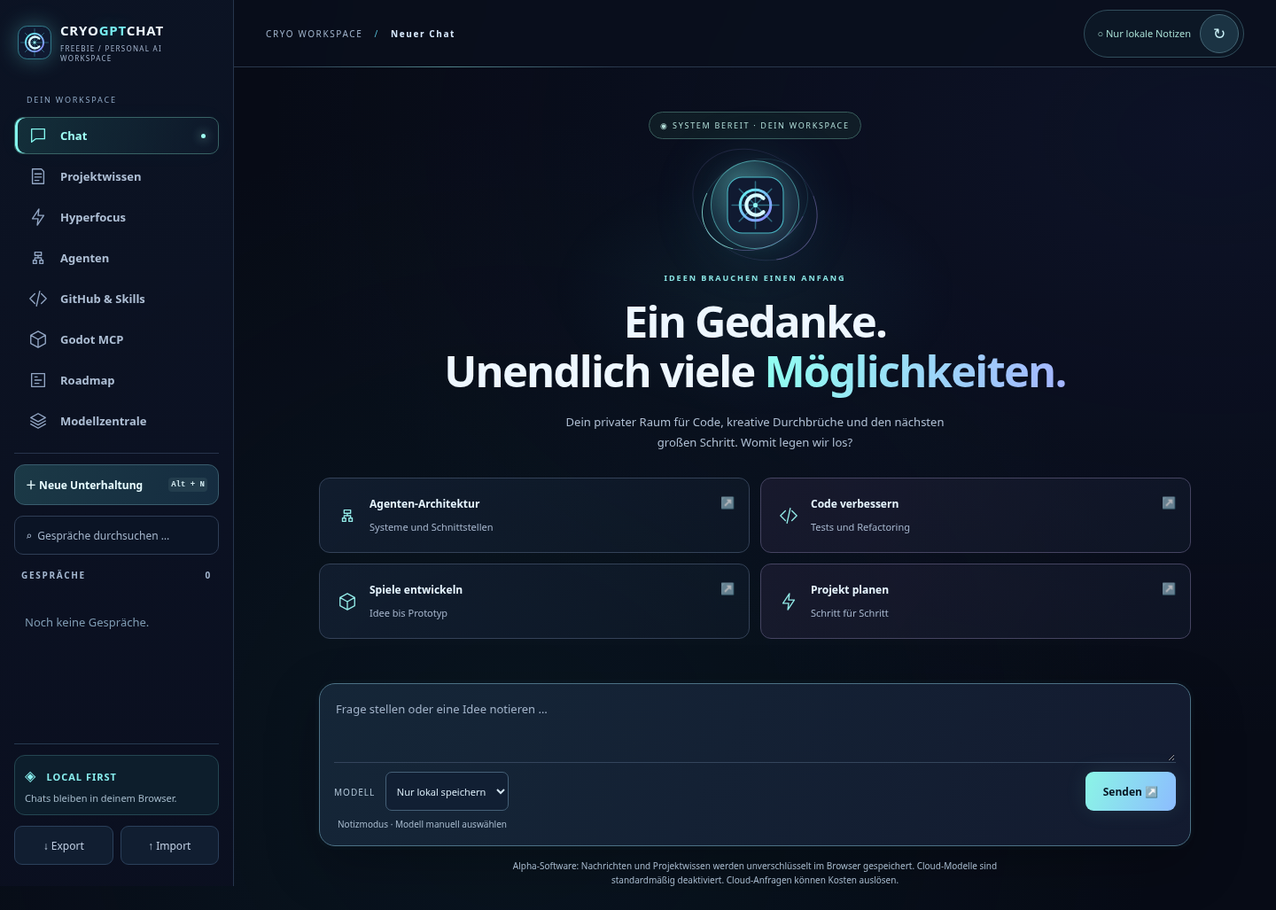
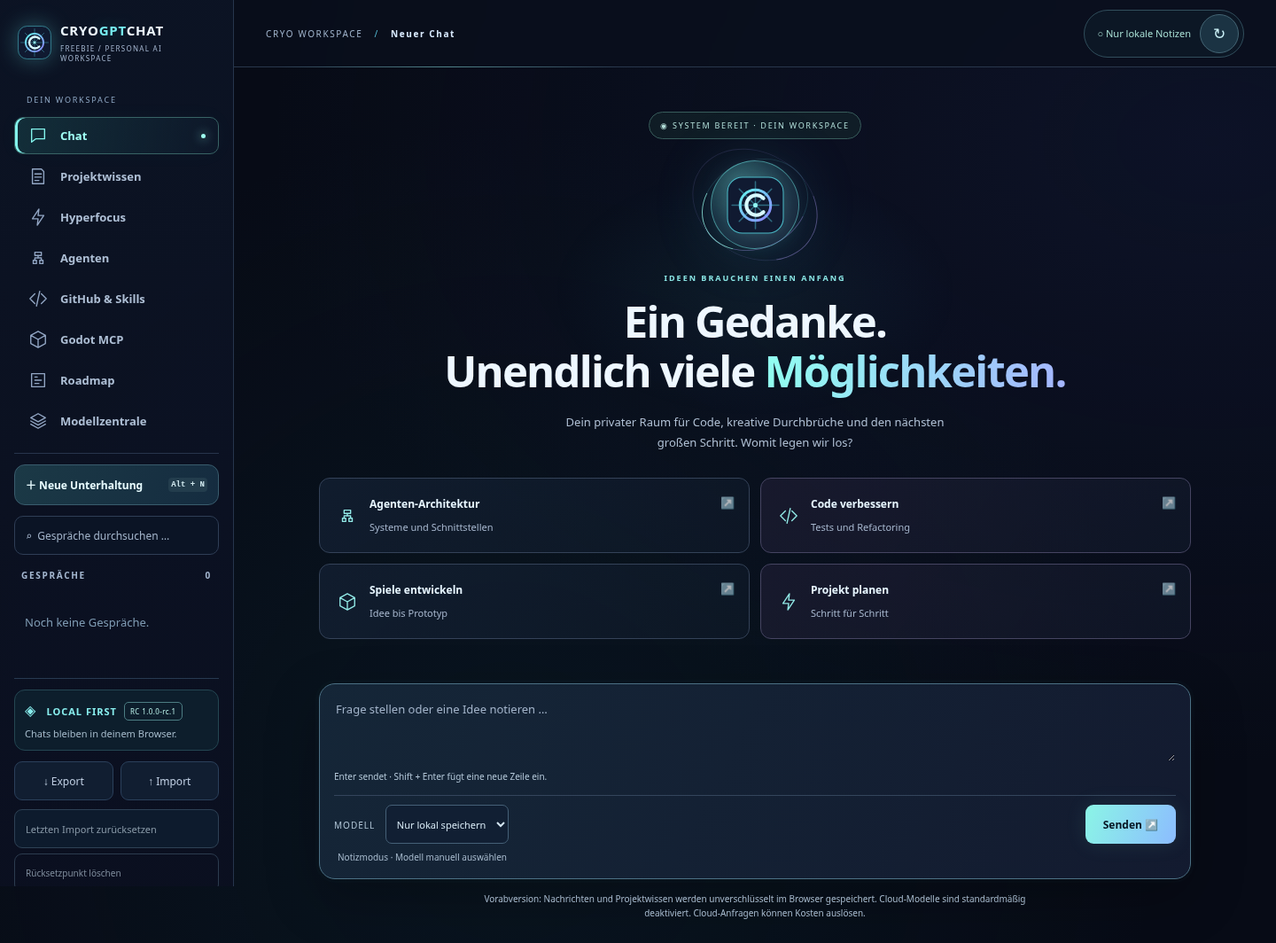
docs: prepare 1.0 release candidate with evidence and open acceptance gate

diff --git a/README.md b/README.md
@@ -9,7 +9,7 @@
   **Ollama lokal**, **OpenAI optional**, **GitHub-/Cryo-Omega-Skills als geprüfte Referenz** und **Godot MCP nur mit manueller Freigabe**.
 
   <p>
-    <code>ALPHA 0.4</code> ·
+    <code>1.0.0-rc.1</code> ·
     <code>LOCAL FIRST</code> ·
     <code>NODE.JS 20+</code> ·
     <code>MODEL PROVIDERS: OPT-IN</code>
@@ -26,6 +26,12 @@
 </div>
 
 ---
+
+## Auf dem Weg zu 1.0 · Release-Candidate
+
+**Stabile 1.0 ist noch nicht freigegeben:** Die manuelle Accessibility-Abnahme bleibt offen. Paketbau, Plattform-/Migrationspolitik und blockierende Release-Gates stehen in [docs/RELEASE.md](docs/RELEASE.md).
+
+Backups vor dem Import prüfen, einen lesbaren Fehlerbericht herunterladen und den letzten Import bei Bedarf zurücksetzen. Die neue Wiederherstellung speichert Chats und Rücksetzpunkt in IndexedDB atomar. Dazu kommen pausierbare Animationen, dauerhaft lesbare Meldungen und verbesserte Tastatur-/Live-Statusführung. Das Backupformat bleibt mit Version 1 und 2 kompatibel. [Wiederherstellung und Grenzen](docs/backup-recovery.md) · [Accessibility-Prüfbericht](docs/accessibility-report.md)
 
 ## ❄ Cryo-Neon-Workspace
 
@@ -132,13 +138,13 @@ Automatisierte Node- und Browser-Tests decken Core, Streaming, Speicherung, GitH
 - **Nicht unverändert öffentlich ins Internet stellen.** Dies ist ein lokales Experiment, keine produktionsreife SaaS-Lösung.
 - Vor einem JSON-Import ein Backup exportieren; bestätigter Import ersetzt den aktuellen Datenbestand.
 
-## 🤖 Alpha 0.4 · Optionale KI-Anbieter und kontrollierte Agentenschritte
+## 🤖 Optionale KI-Anbieter und kontrollierte Agentenschritte
 
 **Neu:** Ollama und eine optionale OpenAI-Chat-Completions-API können in derselben Modellauswahl genutzt werden. Die OpenAI-Anbindung benötigt serverseitig `OPENAI_API_KEY` **und** die explizite Modell-Allowlist `CRYO_OPENAI_MODELS`. Cloud-Nutzung bleibt standardmäßig aus; vor jeder Cloud-Anfrage wird der Nutzer gefragt. Die OpenAI API ist separat kostenpflichtig.
 
-Der **Agenten-Workspace** zeigt für erlaubte GitHub-Leseaktionen zunächst einen Plan. Erst nach expliziter Freigabe wird **genau ein** Schritt ausgeführt: README lesen oder den Cryo-Omega-Skill-Katalog durchsuchen. Ergebnisse werden nur auf Knopfdruck in einen Nachrichtenentwurf übertragen; sie starten keinen autonomen Agenten.
+Der **Agenten-Workspace** bietet bis zu fünf einzeln freigegebene Leseaktionen: README, Skills, Repository-Struktur und begrenzte Textdateien. Ergebnisse werden nur auf Wunsch in einen Nachrichtenentwurf übertragen. Optionale Markdown-Ausgabe benötigt getrennte serverseitige Opt-ins und eine vollständige Vorschau; GitHub-Ausgabe erzeugt neue Branches und PRs, keine direkten Änderungen auf `main`.
 
-**Einrichtung, Datenschutz und Grenzen:** [Modellanbieter & Agentenschritte](docs/model-providers-and-agents.md). Kein GitHub-Schreibzugriff, keine Shell-Kommandos und keine automatische Ausführung von Skills.
+**Einrichtung, Datenschutz und Grenzen:** [Modellanbieter & Agentenschritte](docs/model-providers-and-agents.md) und [Workspace-Konfiguration](docs/workspace.md). Keine Shell-Kommandos und keine automatische Ausführung von Skills.
 
 ## 🔌 Optionale Integrationen (experimentell)
 
@@ -148,7 +154,7 @@ Die neue GitHub-Anbindung kann explizit freigegebene **öffentliche** Repositori
 CRYO_GITHUB_REPOS=Pierreg99/CryoGPTCHATFREEBIE,Pierreg99/cryo-omega-AI-Agentic-Learn-Packages npm start
 ```
 
-Öffne dann im Chat **Projektwissen → GitHub & Cryo-Omega Skills**. Ohne diese Umgebungsvariable bleibt die Integration ausgeschaltet. Weitere Hinweise und API-Details: [Integrationsanleitung](docs/integrations.md).
+Öffne dann in der Navigation **GitHub & Skills**. Ohne diese Umgebungsvariable bleibt die Integration ausgeschaltet. Weitere Hinweise und API-Details: [Integrationsanleitung](docs/integrations.md).
 
 ## 🧠 Projektwissen je Chat
 
@@ -195,7 +201,7 @@ Es werden **keine** bestehenden Szenen überschrieben und **keine** Dateipfade o
 | :--- | :--- | :--- |
 | **v0.1–v0.4** | Chat, Streaming, IndexedDB, OpenAI Opt-in, GitHub-/Skill-Read-only und Godot MCP | ✅ Im Code / historische Phasen |
 | **v0.5** | Hyperfocus: einmal bestätigte, begrenzte read-only Recherche mit optionaler Ollama-Planung | ✅ MVP mit Browser-E2E |
-| **v0.6–v1.0** | Browser-Tests, Accessibility, Datenrettung und Security-Baseline | ⬜ Geplant |
+| **v0.6–v1.0** | Browser-Tests, Accessibility, Datenrettung und Security-Baseline | v0.6/v0.8/v0.9 umgesetzt; v0.7 und v1.0 teilweise |
 | **v1.1–v3.0** | Zuverlässigkeit, Projektwissen, Skill-Registry und zitierte Quellen | ⬜ Vision |
 | **v3.1–v5.0** | Geprüfte Agentenrechte, sichere GitHub-Workflows und Godot/3D | ⬜ Vision |
 | **v5.1–v10.0** | Multimodalität, optionaler Sync, Plugin-SDK und Plattformreife | ⬜ Vision |

diff --git a/docs/security/THREAT-MODEL.md b/docs/security/THREAT-MODEL.md
@@ -1,0 +1,39 @@
+# Security-Baseline · Roadmap v0.9
+
+## Einsatzgrenze
+
+Die App läuft als lokaler Einzelbenutzer-Prozess ausschließlich auf `127.0.0.1`. Sie bietet keine Anmeldung, Benutzertrennung, Prozesssandbox oder sichere öffentliche Bereitstellung. Ein anderer Prozess oder Benutzer mit Zugriff auf das lokale Konto kann Browser-/Dateisystemdaten und Serverkonfiguration erreichen. Das ist keine Multi-User-Sicherheitsgrenze.
+
+Schützenswerte Daten sind Chat-/Projektnotizen und Backups, serverseitige Provider-/GitHub-Schlüssel, lokale Ausgabeordner und ausdrücklich konfigurierte Godot-Projekte. Externe README-/Skill-Texte und MCP-Antworten sind Daten, keine privilegierten Anweisungen.
+
+## Grenzen und Maßnahmen
+
+| Angriff / Fehler | Maßnahme und Test |
+| --- | --- |
+| DNS-Rebinding / fremder Host | HTTP-Host muss exakt `127.0.0.1:PORT` sein. Absolute Fremd-URLs werden abgewiesen. Browser-/Raw-HTTP-Negativtests in `tests/security.test.js`. |
+| Fremde Browser-Anfragen | Fremder/undurchsichtiger Origin und widersprüchliche Fetch-Metadata werden bei API-POST vor dem Routing abgewiesen. Browser-JSON verlangt passenden Ursprung. |
+| Historische lokale CLI | Chat und lesende Agenten behalten den dokumentierten lokalen CLI-Pfad ohne Origin/Fetch-Metadata. Godot, Hyperfocus und Agenten-Schreiben verlangen weiterhin expliziten kanonischen Origin. Das ist keine Authentifizierung lokaler Programme. |
+| XSS / Clickjacking | Content-Security-Policy ohne Inline-Skripte, fremde Verbindungen oder eingebettete Frames; frame-ancestors none, X-Frame-Options DENY, nosniff und Same-Origin-CORP/COOP. Texte werden als Text eingefügt. |
+| Unbeabsichtigte Gerätefreigabe | Kamera, Mikrofon und Standort sind per Permissions-Policy deaktiviert. Künftige Medienfeatures benötigen eine gesonderte Änderung. |
+| Überlast / große Eingaben | Maximal 200.000 HTTP-Body-Bytes, Content-Length-Vorabprüfung, 15 s Request-/10 s Header-Timeout, 64 Header. Höchstens zwei aktive Modellanfragen, ein Hyperfocus-Lauf und zwei Godot-Prozesse. Vorhandene Modell-/Stream-/Planlimits bleiben aktiv. |
+| Beliebige Dateien / URLs | Statische Dateien haben eine explizite Allowlist; GitHub-Reads nutzen festen API-Host und freigegebene Repositories. Lokale Writes erlauben neue Markdown-Dateien im festgelegten Linux-Ausgabeordner. |
+| Ungeprüfte Schreibaktionen | Default aus, begrenzte Repositories und serverseitiger Token, vollständige Vorschau, kurzlebiges gebundenes Ticket, neue Branches und PRs; kein Merge aus Produkt-Agenten. |
+| Veraltete oder doppelte Freigabe | Einmal-Tickets, Kontext-/Inhaltsprüfung und GitHub-Commit-/Branch-Abgleich. Ein Restore verwirft alte Browser-Vorschauen. |
+| Backup-Verlust | Vorschau, redigierter Bericht, ausdrückliche Bestätigung und atomarer IndexedDB-Rücksetzpunkt. Quota-/Konfliktfälle werden negativ geprüft. |
+
+Die Obergrenze für den HTTP-Body schließt JSON-Escaping ein und kann kleiner sein als die theoretische Summe aller einzelnen Textfeldlimits. Oversize-Content-Length wird mit 413 abgewiesen; chunked Übergröße wird beim Lesen beendet. Es gibt keinen unbegrenzten generischen Proxy oder Shell-Endpunkt.
+
+## Restrisiken
+
+Browser-Speicher und Exporte sind unverschlüsselt. Öffentliche GitHub-APIs können Rate-Limits erreichen. Ein ausdrücklich gestartetes externes MCP-Programm ist ausführbarer Fremdcode und wird durch die Werkzeug-Allowlist nicht isoliert. Ein lokaler GitHub-/Provider-Token muss außerhalb des Repositories verwaltet und minimal berechtigt sein. Einen bereits angelegten Branch oder eine externe Datei löscht ein fehlgeschlagener Folgeaufruf nicht automatisch.
+
+Diese Baseline und negative Tests sind kein unabhängiger Penetrationstest. Sandbox, Multi-User-/Sync-Rechte, vollständiges Approval-Journal und externe Audits gehören weiterhin zu ihren eigenen Roadmap-Gates.
+
+## Review-Checkliste
+
+- [x] Zulässige Hosts, Browser-Origin und CLI-Ausnahme sind ausdrücklich dokumentiert und getestet.
+- [x] Alle API-Schreib-/Toolwege bleiben begrenzt; keine neue Shell oder freie Tool-Selektion.
+- [x] CSP/Frame-/Gerätegrenzen sind zentral definiert und über HTTP geprüft.
+- [x] Body-/Zeit-/Parallelitätslimits liegen vor Upstream-Seiteneffekten.
+- [x] Rücksetz-/Fehlerberichte enthalten keine Chattexte oder Schlüssel.
+- [x] Replay, Traversal, geänderte Vorschau, Quota und konkurrierende Daten sind in negativen Tests vertreten.

diff --git a/docs/accessibility-report.md b/docs/accessibility-report.md
@@ -1,0 +1,39 @@
+# Accessibility-Prüfbericht · 1.0.0-rc.1
+
+Stand: 21. Oktober 2026. Roadmap v0.7, Kernflows des lokalen Einzelbenutzer-Workspace. Dieser Bericht dokumentiert technische Prüfungen gegen WCAG 2.2 A/AA; er ist keine vollständige Konformitätserklärung oder unabhängige Zertifizierung.
+
+## Gegenstand und Methode
+
+Geprüft werden Navigation, Chat/Stoppen, Modellwahl, Projektwissen, Agentenfreigaben, GitHub/Skills, Hyperfocus, Godot-Formulare, Roadmap und Backup-Wiederherstellung. Grundlage sind echte Chromium-Browserläufe, DOM-/Accessibility-Regeln mit axe, Tastatureingaben, Fokus-/Geometrieprüfungen und Fehler-Injektion. Externe Provider und Godot sind dabei simuliert. Viewports: 320, 360, 768 und 1440 CSS-Pixel. Die Tests stehen in `e2e/accessibility.spec.js`, `e2e/recovery.spec.js` und `e2e/workspace.spec.js`.
+
+## Umgesetzte und technisch geprüfte Maßnahmen
+
+| Kriterium / Risiko | Änderung und Nachweis |
+| --- | --- |
+| 1.1.1, 1.3.1, 4.1.2 – Namen und Semantik | Beschriftete Felder, Landmarken, native Dialoge und dekorative SVGs ohne redundante Ansage; axe über acht Ansichten und Importdialog. |
+| 1.4.3 – Kontrast | axe prüft erfassbare Text-/Hintergrundkombinationen. Visuelle Sonderzustände bleiben Teil der manuellen Abnahme. |
+| 1.4.10 – Reflow | Keine horizontale Seitennavigation bei 320 CSS-Pixeln in acht Ansichten; größere Desktop-/Tablet-Viewports ebenfalls geprüft. |
+| 2.1.1, 2.1.2 – Tastatur | Alt+N erstellt einen Chat; Tab erreicht Modellwahl und Senden; Enter kann eine gestartete Antwort stoppen. Dialog und mobile Navigation verlassen sich mit Escape. |
+| 2.2.1 – Lesedauer | Meldungen verschwinden nicht mehr nach acht Sekunden. Eine beschriftete Schließen-Schaltfläche gibt die Kontrolle zurück. |
+| 2.2.2 – Bewegung | Animationen lassen sich unabhängig pausieren und lokal merken. Die Systemvorgabe für reduzierte Bewegung hat Vorrang. |
+| 2.4.1, 2.4.3, 2.4.7 – Fokus | Sprunglink, Fokus bei Ansichtswechsel, native Dialogbegrenzung, geschlossene mobile Navigation außerhalb der Tab-Reihenfolge und Fokusrückgabe nach Stoppen/Schließen. |
+| 2.4.11 – Nicht verdeckter Fokus | Meldungen reservieren Platz; überlagerte fokussierte Elemente werden sichtbar gescrollt. Geometrieprüfung im mobilen Browser-Test. |
+| 2.5.8 – Ziele | axe-WCAG-2.2-Regeln ergänzen die vorhandenen Mindestgrößen. Kontrollbeschriftungen vergrößern auch die anklickbare Checkboxfläche. |
+| 3.3.1, 3.3.2, 3.3.4 – Fehler und Datenverlust | Backup-Dry-run mit Fehlerpfaden, Vorschau, gesonderter Zustimmung und Rücksetzpunkt; fehlgeschlagene Speicherung wird nicht als Erfolg dargestellt. |
+| 4.1.3 – Status | Separate, kurze Generierungsansagen und aria-busy; der gesamte Chatverlauf wird nicht bei jedem Rendern neu vorgelesen. |
+
+## Reproduktion
+
+```bash
+npm ci
+npx playwright install chromium
+npm run test:e2e -- e2e/accessibility.spec.js e2e/recovery.spec.js
+```
+
+Die Browser-Suite verwendet die Tags `wcag2a`, `wcag2aa`, `wcag21aa` und `wcag22aa`. Die breitere Layout-Suite bleibt zusätzlich aktiv. Ein grüner Regelscan kann nicht die tatsächliche Bedienerfahrung mit Assistive Technology beweisen.
+
+## Offene manuelle Abnahme – blockiert stabiles 1.0
+
+Ein Mensch muss die folgenden Kernflows mit einer realen Screenreader-/Browserkombination protokollieren: Navigation einschließlich mobilem Drawer, Chat erstellen/senden/stoppen, Modell-/Cloud-Freigabe, Projektwissen speichern, Agentenplan freigeben sowie gültiges/ungültiges Backup prüfen, importieren und zurücksetzen. Zu dokumentieren sind Betriebssystem, Browser, Screenreader und Versionen, Datum, Ergebnis und Befunde. Zusätzlich sind Textvergrößerung/Zoom, Textabstände, Fokuskontrast in Sonderzuständen und tatsächliche Lesereihenfolge zu prüfen.
+
+In dieser Umgebung wurden keine NVDA-, VoiceOver- oder Orca-Sprachausgaben gehört, keine physischen Mobilgeräte geprüft und keine unabhängige WCAG-Abnahme durchgeführt. Es werden dafür keine positiven Ergebnisse behauptet. Roadmap v0.7 bleibt **teilweise umgesetzt**, bis der manuelle Nachweis vorliegt. Die Release-Checkliste blockiert deshalb `1.0.0`; `1.0.0-rc.1` ist ein prüfbarer Kandidat.

diff --git a/docs/workspace.md b/docs/workspace.md
@@ -75,7 +75,7 @@ npm run test:e2e
 
 Der Server benötigt Node 20+. Browser-Tests verwenden Node 24 in CI; aktuelle axe-Entwicklungsabhängigkeiten benötigen mindestens Node 22.12. Die Laufzeit hat weiterhin keine npm-Abhängigkeiten.
 
-Node-Tests prüfen bestehende Funktionen sowie Markdown-Validierung, exklusive lokale Ausgabe, Symlink-Schutz, Ablauf/Wiederverwendung, geänderten Basisbranch und GitHub-Teilfehler. Playwright prüft acht Ansichten bei 360/768/1440 Pixeln mit axe, Tastatur-/Dialogbedienung, Chats, Streaming/Abbruch, Projektwissen, Backup-Import/Export, Modelle, Skills, Hyperfocus, Agenten und Godot. CI behält Node 20/22 bei und ergänzt einen Chromium-Job mit Fehler-Screenshots und Traces.
+Node-Tests prüfen bestehende Funktionen sowie Markdown-Validierung, exklusive lokale Ausgabe, Symlink-Schutz, Ablauf/Wiederverwendung, geänderten Basisbranch und GitHub-Teilfehler. Playwright prüft acht Ansichten bei 360/768/1440 Pixeln mit axe, Tastatur-/Dialogbedienung, Chats, Streaming/Abbruch, Projektwissen, Backup-Import/Export, Modelle, Skills, Hyperfocus, Agenten und Godot. CI prüft Node 20/22/24 und ergänzt einen Chromium-Job mit Fehler-Screenshots und Traces.
 
 Externe Dienste werden in Tests simuliert. Echte kostenpflichtige Cloud-Anfragen, reale Godot-Installationen und Schreibaktionen in fremden GitHub-Repositories werden nicht durch die Tests ausgeführt. Automatische axe-Prüfungen ersetzen keinen vollständigen Screenreader-Test.
 
@@ -87,8 +87,12 @@ Echte Screenshots der lokal laufenden Oberfläche: [Desktop](screenshots/workspa
 
 `GET /api/roadmap` liest die bestehende Markdown-Roadmap serverseitig über `src/roadmap.mjs`. Die Dokumentation bleibt die einzige Datenquelle; es gibt keine separat zu pflegende JSON-Kopie. Der Parser prüft alle 100 aufeinanderfolgenden Versionsnummern, zehn Phasen und vollständige Abnahmekriterien. Ungültige Quelldaten erzeugen einen Fehler mit Wiederholungsaktion in der Oberfläche. Es werden keine Releases oder Implementierungen aus Versionsnummern abgeleitet.
 
-Statusabgleich nach PR #13: v0.1–v0.6 sind Entwicklungsmeilensteine im Code; v0.7 und v6.1 sind teilweise umgesetzt. Eine vollständige manuelle WCAG-2.2-AA-Abnahme bleibt offen. Weitere Ziele behalten ihren Planungsstatus, bis ihre Gates belegt sind.
+Statusabgleich zum 1.0-Release-Candidate: v0.1–v0.6, v0.8 und v0.9 sind Entwicklungsmeilensteine im Code; v0.7, v1.0 und v6.1 sind teilweise umgesetzt. Eine vollständige manuelle WCAG-2.2-AA-Abnahme bleibt offen. Weitere Ziele behalten ihren Planungsstatus, bis ihre Gates belegt sind.
 
 Der Interface-Feinschliff ergänzt einheitliche SVG-Symbole, kompakte mobile Vorschläge, eine Kontextleiste, zweispaltige Agentenformulare, einen Notizeditor mit Zeichen-/Änderungsanzeige und erklärten Freigaben, Hyperfocus-Phasen und aufklappbare Godot-Szenenoptionen. Leere Modelllisten unterscheiden fehlende Verbindung und erfolglose Suche mit passenden Aktionen. Der Notiz-Leerzustand erstellt einen Chat und kehrt direkt zum Werkzeug zurück. Bestehende Freigaben und Backups bleiben erhalten.
 
-Aktuelle Abdeckung: 69 Node-Tests und 14 Browser-Tests, einschließlich sämtlicher 100 Roadmap-Versionen, Filter, Mobile-Composer und Kontext-Leerzustand. [Roadmap auf Desktop](screenshots/roadmap.png) · [Roadmap auf Mobile](screenshots/roadmap-mobile.png).
+Die aktuelle Testabdeckung umfasst Node- und Browser-Suiten, einschließlich sämtlicher 100 Roadmap-Versionen, Filter, Mobile-Composer und Kontext-Leerzustand. [Roadmap auf Desktop](screenshots/roadmap.png) · [Roadmap auf Mobile](screenshots/roadmap-mobile.png).
+
+## 1.0-Release-Candidate
+
+Der aktuelle Roadmap-Ausbau implementiert Backup-Dry-run und Restore-Wizard mit Rücksetzpunkt sowie die dokumentierte Security-Baseline. [Backup-Bedienung](backup-recovery.md), [Accessibility-Bericht](accessibility-report.md), [Threat Model](security/THREAT-MODEL.md) und [Release-Politik](RELEASE.md) enthalten die prüfbaren Grenzen. Die stabile 1.0-Freigabe bleibt bis zum manuellen Accessibility-Nachweis blockiert. Aktuelle Aufnahmen: [Backup-Vorschau auf Desktop](screenshots/backup-restore.png) und [auf Mobile](screenshots/backup-restore-mobile.png).

diff --git a/docs/backup-recovery.md b/docs/backup-recovery.md
@@ -1,0 +1,31 @@
+# Geprüfte Backup-Wiederherstellung
+
+Roadmap v0.8 ist für das bestehende Chat-/Projektwissen-Format umgesetzt. Backups der Versionen 1 und 2 bleiben kompatibel. Die App prüft eine Datei lokal; kein Backup wird dafür an einen Server oder ein Modell übertragen.
+
+## Ablauf
+
+1. **Import** wählen und JSON-Datei bis 3 MiB auswählen.
+2. Der Assistent führt einen Dry-run durch. Er zeigt Quell-/Zielformat, aktuelle und importierte Chatanzahl, Nachrichten, Notizen, vorhandene Kontextfreigaben, Fehlerpfade und Normalisierungen. Bis hierhin wird nichts ersetzt.
+3. Bei Bedarf den aktuellen Stand und einen redigierten Prüfbericht herunterladen. Der Bericht enthält keine Nachrichten oder Projektnotizen.
+4. Die Vorschau ausdrücklich bestätigen und **Backup importieren** wählen. Version 1 wird nach Version 2 migriert; alte Modellfreigaben werden nicht aktiviert. In Version 2 vorhandene Kontextfreigaben werden angezeigt und erhalten. Der Import selbst erzeugt keine Modellanfrage.
+5. Nach erfolgreichem Import steht **Letzten Import zurücksetzen** bereit. Auch das Zurücksetzen verlangt eine Vorschau und Zustimmung. Nach erfolgreichem Rücksetzen wird der Rücksetzpunkt verbraucht. Mit **Rücksetzpunkt löschen** kann die zusätzliche Kopie auch ohne Rücksetzen entfernt werden.
+
+Nachrichten, Projektwissen, aktive Chat-ID und Modellauswahl werden wiederhergestellt; das gewählte Modell muss weiterhin beim Provider verfügbar und serverseitig erlaubt sein. Favoriten und Bewegungseinstellungen gehören nicht zum Chat-Backup und bleiben unverändert. Vorhandene Hyperfocus-Ergebnisse für Chats im Rücksetzpunkt werden bis zur Rücksetzung oder Löschung dieses Punkts vor der normalen Bereinigung geschützt; die Historie unterliegt weiterhin ihrem globalen Größenlimit.
+
+## Aktuelle Oberfläche
+
+[Desktop-Vorschau](screenshots/backup-restore.png) · [Mobile-Vorschau](screenshots/backup-restore-mobile.png). Die Aufnahmen zeigen den lokal laufenden Release-Candidate mit einer synthetischen Beispieldatei.
+
+## Speicherung und Fehler
+
+IndexedDB speichert den bisherigen Stand als `restore-checkpoint-v1` und den neuen Stand als `current` in **einer** Transaktion im bestehenden Object Store. Scheitert ein Schreibvorgang, bleiben beide vorherigen Einträge unverändert. Erst nach erfolgreichem Commit ersetzt die App ihren sichtbaren Zustand. Ein Vergleich des erwarteten bisherigen Stands verhindert, dass der Assistent unbemerkte Änderungen eines anderen Tabs überschreibt; bei Konflikten muss neu geladen werden.
+
+Im localStorage-Fallback gibt es keine atomare Mehrschlüsseltransaktion. Dort wird zuerst die bisherige Kopie gesichert und erst danach der aktuelle Stand ersetzt. Bei Fehlern bleibt der aktuelle Chatstand erhalten; die Wiederherstellung eines älteren Rücksetzpunkts erfolgt bestmöglich. Bei nicht zugänglichem Browser-Speicher bleibt der Import gesperrt.
+
+Der Rücksetzpunkt enthält private Daten **unverschlüsselt**, genau wie der bisherige Chat-Speicher. Es bleibt höchstens ein Punkt erhalten; ein weiterer erfolgreicher Import ersetzt ihn. Wer Daten dauerhaft entfernen will, muss auch diesen Punkt und externe JSON-Exporte berücksichtigen. Der Assistent ersetzt keine geräteunabhängige Datensicherung.
+
+Bereits geplante Agenten-/Hyperfocus-/GitHub-Vorschauen werden beim Restore auch dann verworfen, wenn die importierte Chat-ID gleich bleibt. Bereits ausdrücklich gestartete externe Schreibaktionen können durch einen lokalen Restore nicht zurückgenommen werden.
+
+## Nachweise
+
+`tests/backup-recovery.test.js` prüft v1/v2, UTF-8-Größenlimits, redigierte Fehlerberichte, atomaren Commit/Rollback, Quota-Fehler, konkurrierende Änderungen, Fallback und Löschen des Punkts. `e2e/recovery.spec.js` führt echte IndexedDB-/Browser-Flows aus: Vorschau ohne Mutation, Import/Reload/Undo, Altformat, kaputte Datei und Schreibfehler. Weitere Restore-E2E prüfen das Verwerfen alter Freigaben und die geschützte Hyperfocus-Historie.

diff --git a/docs/roadmap/ROADMAP-100.md b/docs/roadmap/ROADMAP-100.md
@@ -9,7 +9,10 @@
 - **✅ Bereits im Code / PR-historisch belegt:** v0.1, v0.2, v0.3, v0.4. Das bedeutet **nicht**, dass jede Idee eines alten Alpha-Abschnitts vollständig end-to-end zertifiziert ist.
 - **✅ Als MVP in `main`:** v0.5 Hyperfocus wurde über PR #10 gemergt; der zugehörige Lokalisierungs-Test wurde über PR #12 repariert. Browser-E2E wurde mit PR #13 ergänzt; echte externe Dienste und vollständige Produktabnahme bleiben separat zu prüfen.
 - **✅ Browser-E2E umgesetzt:** v0.6 durch PR #13 mit Chromium und Desktop-/Mobile-Viewports.
-- **🟨 Teilweise umgesetzt:** v0.7 (automatische Accessibility-Prüfungen; manuelle WCAG-2.2-AA-Abnahme offen), v6.1 (Designsystem und responsive UI; umfassende Produktabnahme offen).
+- **✅ Security-Baseline umgesetzt:** v0.9 mit Host-/Origin-/CSP-Härtung, Limits, negativen HTTP-Tests und [Bedrohungsmodell](../security/THREAT-MODEL.md).
+- **🟨 1.0 vorbereitet:** Release-Candidate 1.0.0-rc.1 mit Plattform-/Migrationspolitik, reproduzierbarem Paket und blockierender [Release-Checkliste](../RELEASE-CHECKLIST.md); stabile Freigabe erst nach manueller Accessibility-Abnahme.
+- **✅ Backup-Wiederherstellung umgesetzt:** v0.8 mit Dry-run, redigiertem Fehlerbericht, geprüftem Import und lokalem Rücksetzpunkt. [Belege und Grenzen](../backup-recovery.md).
+- **🟨 Teilweise umgesetzt:** v0.7 (WCAG-2.2-Regeln, Keyboard-/Fokus-/Reflow-Tests und [Prüfbericht](../accessibility-report.md); unabhängige Screenreader-Abnahme offen), v6.1 (Designsystem und responsive UI; umfassende Produktabnahme offen).
 - **⬜ Zukunftsplanung:** Übrige Meilensteine bis v10.0 beschreiben noch offene Gates, keine zugesagten Liefertermine.
 - **Abnahmeprinzip:** Jede Version benennt ein konkretes Artefakt und einen **prüfbaren Exit-Gate**. Funktionen mit externem Netzwerk, privaten Daten oder Writes bleiben standardmäßig deaktiviert und erfordern Sicherheitsprüfung sowie ausdrückliche Freigabe.
 
@@ -66,17 +69,23 @@ Von lokalem Experiment zu klar dokumentiertem Einzelbenutzer-Workspace.
 
 **Lieferobjekt:** Tastaturreihenfolge, Dialoge, Fokusmanagement und Statusmeldungen prüfen. **Abnahme:** WCAG-2.2-AA-Prüfbericht für Kernflows.
 
-#### ⬜ Geplant v0.8 · Backup-Wiederherstellung
+#### ✅ Implementiert v0.8 · Backup-Wiederherstellung
 
 **Lieferobjekt:** Export-/Import-Protokoll mit Dry-run, Fehlerbericht und Restore-Wizard. **Abnahme:** Roundtrip mit v1/v2 und beschädigten Daten.
 
-#### ⬜ Geplant v0.9 · Security-Baseline
+**Belege:** [Backup-Prüfung](../../src/backup.js), [Importassistent](../../src/backup-ui.js), [atomare Speicherung](../../src/recovery-storage.js), [Recovery-Tests](../../tests/backup-recovery.test.js) und [Browser-Flows](../../e2e/recovery.spec.js).
+
+#### ✅ Implementiert v0.9 · Security-Baseline
 
 **Lieferobjekt:** Threat-Model, CSP-Härtung, Origin- und Request-Limits dokumentieren. **Abnahme:** Negative API-Tests und Review-Checkliste.
 
-#### ⬜ Geplant v1.0 · Stabiles 1.0
+**Belege:** [Grenzen und Review](../security/THREAT-MODEL.md), [Request-Policy](../../src/security.mjs) und [HTTP-Negativtests](../../tests/security.test.js).
+
+#### 🟨 Teilweise umgesetzt v1.0 · Stabiles 1.0
 
 **Lieferobjekt:** Unterstützte Plattformen, Migrationspolitik und reproduzierbare Releases definieren. **Abnahme:** Release-Checkliste und E2E grün.
+
+**Vorhanden:** [Release-Politik](../RELEASE.md), [Paketbau](../../scripts/release.mjs) und CI-Artefakt. **Offen:** Die REQUIRED-Abnahme in der [Checkliste](../RELEASE-CHECKLIST.md) ist noch nicht nachgewiesen; stabile Tags werden deshalb blockiert.
 
 ### Phase 2 · Qualität, Stabilität und lokale Erfahrung (v1.1–v2.0)
 

diff --git a/docs/RELEASE.md b/docs/RELEASE.md
@@ -1,0 +1,30 @@
+# Release- und Kompatibilitätspolitik
+
+Ziel ist **1.0.0**. Der aktuelle Stand **1.0.0-rc.1** ist ein prüfbarer Release-Candidate, keine vorzeitig freigegebene stabile Version. Die offenen Bedingungen stehen in [RELEASE-CHECKLIST.md](RELEASE-CHECKLIST.md). Es werden in diesem Arbeitsschritt weder stabile Tags noch GitHub-Releases erzeugt.
+
+## Unterstützte und geprüfte Umgebung
+
+Der geprüfte Zielbetrieb ist ein lokaler Einzelbenutzer-Workspace auf Linux x64, aktuelles Chromium, Node 22.12+ oder Node 24. Die Kompatibilitätstests für Node 20 bleiben erhalten. Die Browser-Suite prüft 320/360/768/1440 CSS-Pixel; das ist kein Nachweis auf physischem Android/iOS oder für Safari/Firefox. Andere Plattformen bleiben experimentell. Lokale Markdown-Ausgabe benötigt ausdrücklich Linux `/proc/self/fd`; GitHub-Ausgabe ist davon getrennt.
+
+Der Notiz-/Chat-Speicher benötigt keine npm-Laufzeitabhängigkeiten. Ollama, OpenAI, GitHub-Write und Godot bleiben optionale, konfigurierte Integrationen. CI prüft deren Protokolle mit kontrollierten Diensten/Mocks; eine echte Modellinferenz oder Godot-Installation wird nicht behauptet. Öffentliche Bereitstellung, Multi-User, Auth, Sync und Sandbox sind nicht Teil dieses Releases.
+
+## Datenmigration und Rollback
+
+Das Anwendungsversionierungsschema ist von Backup-Versionen getrennt. Version-1-Backups werden nach Schema 2 migriert; Version-2-Daten bleiben kompatibel. Unbekannte Backup-Versionen werden vor einer Mutation abgewiesen. Die aktuelle IndexedDB-Struktur und der Schlüssel `current` bleiben erhalten; der zusätzliche Rücksetzpunkt verwendet einen eigenen Schlüssel.
+
+Vor einem Upgrade einen JSON-Export erzeugen. Für Rollback auf Alpha 0.4 kann der gleiche Schema-2-Export genutzt werden; neue UI-Präferenzen werden von alten Versionen ignoriert. Die alte Version bietet den neuen Undo-Assistenten nicht. Ein Dateisystem-/Serverrollback ändert nicht automatisch Browserdaten. Wiederherstellungspunkt und externe Exporte sind unverschlüsselte Kopien und müssen bei endgültiger Löschung berücksichtigt werden.
+
+## Reproduzierbares Paket
+
+```bash
+npm test
+npm ci
+npx playwright install chromium
+npm run test:e2e
+# Erst aus einem sauberen, committed Checkout:
+npm run release:verify
+```
+
+`dist/` enthält ein TAR-Quellpaket, `SHA256SUMS` und `manifest.json` mit Anwendungsversion, Commit, Größe, Hash, Kanal und offenen Gates. `git archive` packt ausschließlich den committed Git-Baum. Untracked/ignorierte `.env`, `node_modules` und `dist` sind ausgeschlossen. Das TAR verwendet Git-Metadaten, keine aktuelle Build-Uhrzeit; derselbe Commit ergibt beim Wiederholungsbau identische Bytes. Das Artefakt ist ein Quellpaket mit Start über `node server.mjs`, kein nativer Installer.
+
+CI baut und lädt den Kandidaten als prüfbares Workflow-Artefakt hoch. Eine spätere ausdrückliche Tag-Erstellung `v<package-version>` startet den Release-Workflow. Dieser führt zunächst denselben Qualitätsworkflow aus, prüft Tag-/Paketgleichheit und die Release-Gates und veröffentlicht anschließend nur die geprüften Dateien. RC-Tags werden als Pre-release veröffentlicht; offene manuelle Gates blockieren eine stabile Version.

diff --git a/docs/model-providers-and-agents.md b/docs/model-providers-and-agents.md
@@ -35,9 +35,9 @@ export CRYO_GITHUB_REPOS=Pierreg99/CryoGPTCHATFREEBIE,Pierreg99/cryo-omega-AI-Ag
 npm start
 ~~~
 
-Im Chat **Projektwissen → Agenten-Workspace** öffnen. Freigegebenes Repository wählen, Aktion **README lesen** oder **Skills suchen** einstellen und zuerst **Schritt planen** anklicken. Danach kann mit **Prüfen und freigeben** genau ein schreibgeschützter GitHub-Schritt ausgeführt werden. Anschließend lässt sich das Ergebnis **als Nachrichtenentwurf** übernehmen; kein automatischer Modellaufruf.
+In der Navigation **Agenten** öffnen und für diesen Ablauf die aufklappbare **Einzelaktion planen** wählen. Freigegebenes Repository wählen, Aktion **README lesen** oder **Skills suchen** einstellen und zuerst **Schritt planen** anklicken. Danach kann mit **Prüfen und freigeben** genau ein schreibgeschützter GitHub-Schritt ausgeführt werden. Anschließend lässt sich das Ergebnis **als Nachrichtenentwurf** übernehmen; kein automatischer Modellaufruf.
 
-Dieses MVP ist bewusst ein **zustimmungsbasierter, einzelner Werkzeugschritt**, kein autonomer Agent. Keine Shell-Befehle, keine GitHub-Mutationen, kein automatisches Tool-Looping. Der Server lässt ausschließlich die zwei definierten Aktionen auf freigegebene öffentliche Repositories zu.
+Die aufklappbare Einzelaktion bleibt erhalten. Zusätzlich gibt es eine Folge von bis zu fünf separat bestätigten Leseaktionen mit README, Skills, Repository-Struktur und Textdateien. Optionale Markdown-Schreibaktionen sind standardmäßig aus und benötigen eigene Konfiguration sowie eine gebundene Vorschau. Keine Shell-Befehle oder freie KI-Tool-Schleifen. [Aktuelle Einrichtung und Grenzen](workspace.md).
 
 Fremde GitHub-Dateien können irreführende Anweisungen enthalten und werden deshalb als Daten, nicht als Systeminstruktionen behandelt.
 
@@ -47,4 +47,4 @@ Fremde GitHub-Dateien können irreführende Anweisungen enthalten und werden des
 npm test
 ~~~
 
-Tests verwenden lokale Mock-Daten; keine kostenpflichtigen Cloud-Abfragen. Noch nicht enthalten: OAuth, GitHub-Schreibzugriffe, KI-gesteuerte autonome Planung, Agenten-Sandbox, Cloud-Sync, verschlüsselte Chat-Backups, mobile Browser-E2E. Weitere Endpunkte dokumentiert in [integrations.md](integrations.md).
+Tests verwenden lokale Mock-Daten; keine kostenpflichtigen Cloud-Abfragen. Noch nicht enthalten: OAuth, freie KI-gesteuerte Tool-Auswahl, Agenten-Sandbox, Cloud-Sync und verschlüsselte Chat-Backups. Geprüfte Markdown-Ausgabe über neue GitHub-Branches/PRs ist separat aktivierbar; Browser-E2E prüft auch mobile Viewports. Weitere Endpunkte dokumentiert in [integrations.md](integrations.md).

diff --git a/CHANGELOG.md b/CHANGELOG.md
@@ -1,0 +1,17 @@
+# Changelog
+
+## 1.0.0-rc.1
+
+Prüfbarer Kandidat für das 1.0-Ziel. Die stabile Freigabe bleibt durch die noch offene manuelle Accessibility-Abnahme blockiert.
+
+- Backup-Dry-run, redigierte Fehlerberichte und expliziter Restore-Assistent für Schema 1/2.
+- Atomarer IndexedDB-Rücksetzpunkt, einmaliges Undo und separates Löschen; Schutz vor Quota-Fehlern und veralteten Vorschauen.
+- Verwerfen alter Agenten-/Hyperfocus-Freigaben nach Restore; bestehende Fokus-Historie des Rücksetzpunkts bleibt geschützt.
+- Persistente, schließbare Meldungen, pausierbare Bewegung und verbesserte Fokus-/Live-Statusführung.
+- Zentraler Host-/Origin-/CSP-Schutz, Body-/Zeit-/Modellparallelitätslimits und dokumentiertes Bedrohungsmodell.
+- Anwendungsversion aus einer Quelle für HTTP/MCP, reproduzierbare Quellpakete und blockierende Stable-Release-Gates.
+- Laufzeit-/Backup-Kompatibilität bleibt erhalten; keine neue npm-Laufzeitabhängigkeit.
+
+## 0.4.0
+
+Historische Alpha-Basis mit lokalem Chat, Streaming, IndexedDB, Projektwissen, optionalen Providern, kontrollierten GitHub-Schritten und Godot MCP. Der anschließend gemergte Cryo-Neon-Workspace und die interaktive 100-Versionen-Roadmap sind Grundlage dieses Kandidaten; Roadmap-Nummern waren keine veröffentlichten Release-Tags.

diff --git a/docs/roadmap/RESEARCH.md b/docs/roadmap/RESEARCH.md
@@ -1,5 +1,9 @@
 # Rechercheprotokoll · CryoGPTCHATFREEBIE Roadmap (2026-10-21)
 
+## Aktueller Ausbau zum 1.0-Release-Candidate
+
+Die Roadmap wird schrittweise implementiert. v0.8 ergänzt geprüften Import/Undo mit echten IndexedDB-Fehlerfällen. v0.9 ergänzt Host-/Origin-/CSP-Grenzen, begrenzte Modellparallelität und negative HTTP-Tests. 1.0.0-rc.1 liefert Release-/Migrationspolitik und reproduzierbare Quellpakete. v0.7 und die stabile 1.0-Freigabe bleiben wegen der noch nicht erfolgten manuellen Accessibility-Abnahme offen. Aktuelle Belege stehen in [Backup-Recovery](../backup-recovery.md), [Security-Baseline](../security/THREAT-MODEL.md) und [Release-Gates](../RELEASE-CHECKLIST.md).
+
 ## Aktualisierung nach PR #13
 
 Der folgende Recherchebericht dokumentiert den historischen Stand vor dem Workspace-Umbau. Seit [PR #13](https://github.com/Pierreg99/CryoGPTCHATFREEBIE/pull/13) gibt es Browser-E2E und axe-Prüfungen, ein responsives Designsystem, Modellfavoriten, Hyperfocus-Historie, freizugebende Agentenfolgen und separat aktivierbare Markdown-Ausgabe. Node 20/22 und Chromium auf Node 24 wurden in CI erfolgreich geprüft. Externe Modell-/Godot-/GitHub-Schreibdienste bleiben in Tests simuliert.

diff --git a/docs/RELEASE-CHECKLIST.md b/docs/RELEASE-CHECKLIST.md
@@ -1,0 +1,15 @@
+# Release-Gates für 1.0
+
+## Automatisch pro Commit geprüft
+
+- Node-Tests unter Node 20, 22 und 24.
+- Chromium-E2E einschließlich Backup-Fehlerfälle, Tastatur, Mobile-Reflow und axe.
+- Kein Dirty-Checkout beim Paketbau; Versionseintrag im Changelog vorhanden; leere oder fehlerhafte REQUIRED-Checklisten werden abgewiesen.
+- Zwei unabhängige `git archive`-Pakete desselben Commits sind bytegleich; SHA-256 und Herkunftsmanifest werden erzeugt.
+- Release-Tag muss exakt zur Paketversion passen; Veröffentlichung erst nach dem wiederverwendeten Qualitätsworkflow.
+
+## Manuelle Voraussetzung für die stabile Freigabe
+
+- [ ] **REQUIRED**: Manuelle WCAG-2.2-AA-Abnahme der Kernflows mit realer Assistive Technology und dokumentiertem Prüfnachweis in docs/accessibility-report.md.
+
+Der Paketbau für eine stabile `1.0.0` oder spätere Hauptversion bricht bei offenen REQUIRED-Zeilen ab. Ein Release-Candidate darf gebaut werden und enthält alle offenen Gates im Manifest. Die Checkbox ist erst nach dem tatsächlichen Nachweis zu schließen; ein grüner axe-Scan ersetzt ihn nicht.

diff --git a/docs/hyperfocus-workflow.md b/docs/hyperfocus-workflow.md
@@ -59,4 +59,4 @@ npm test
 
 Mock-basierte Tests prüfen Planung, Repo-Allowlist, Cloud-Ausschluss, begrenzte Toolaufrufe, Abbruch, Ollama-Modellvalidierung, API-Origin und Ticketformat. **Nicht als E2E getestet:** Live-GitHub-Zugriff, Browser-Läufe oder echte lokale Ollama-Inferenz.
 
-**Roadmap:** persistent gespeicherte Fokus-Sitzungen, optionaler Pausentimer, Skill-Relevanzranking, separate Freigabe für kontrollierte Schreibwerkzeuge nach Sandbox-/Undo-Konzept, browserbasierte E2E-Tests. Alles mit eigenständigem Consent und Rechteprüfung; keine implizite Hochstufung des Read-only MVP.
+**Umgesetzt:** lokale Historie abgeschlossener Ergebnisse und Browser-E2E. **Weiterhin Roadmap:** wiederaufnehmbare Fokus-Sitzungen, optionaler Pausentimer, Skill-Relevanzranking, separate Freigabe für kontrollierte Schreibwerkzeuge nach Sandbox-/Undo-Konzept. Alles mit eigenständigem Consent und Rechteprüfung; keine implizite Hochstufung des Read-only MVP.
